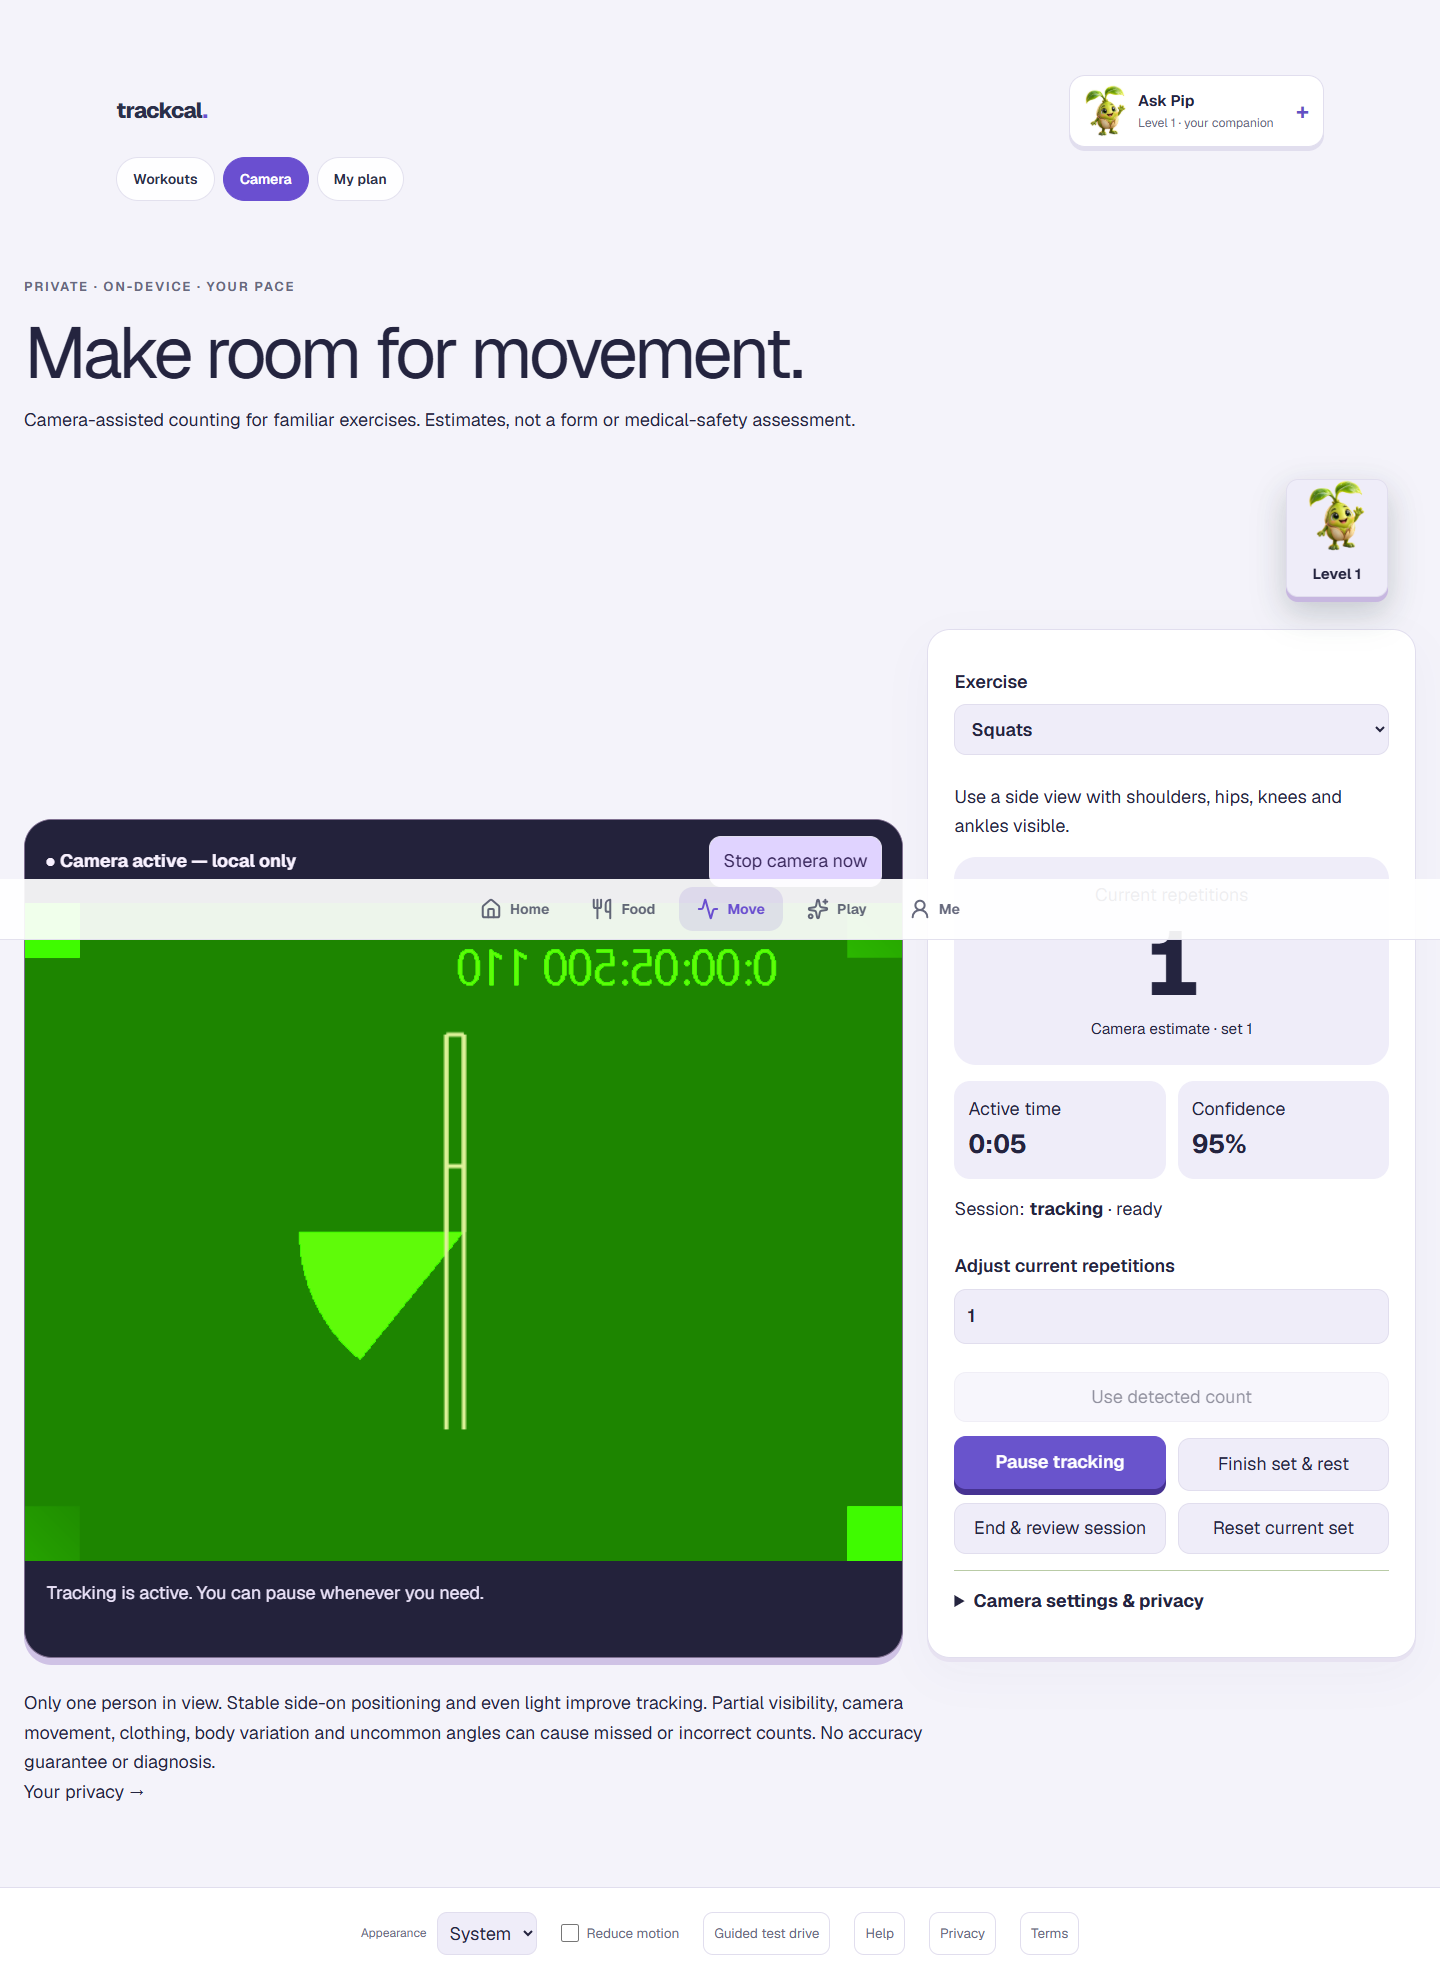
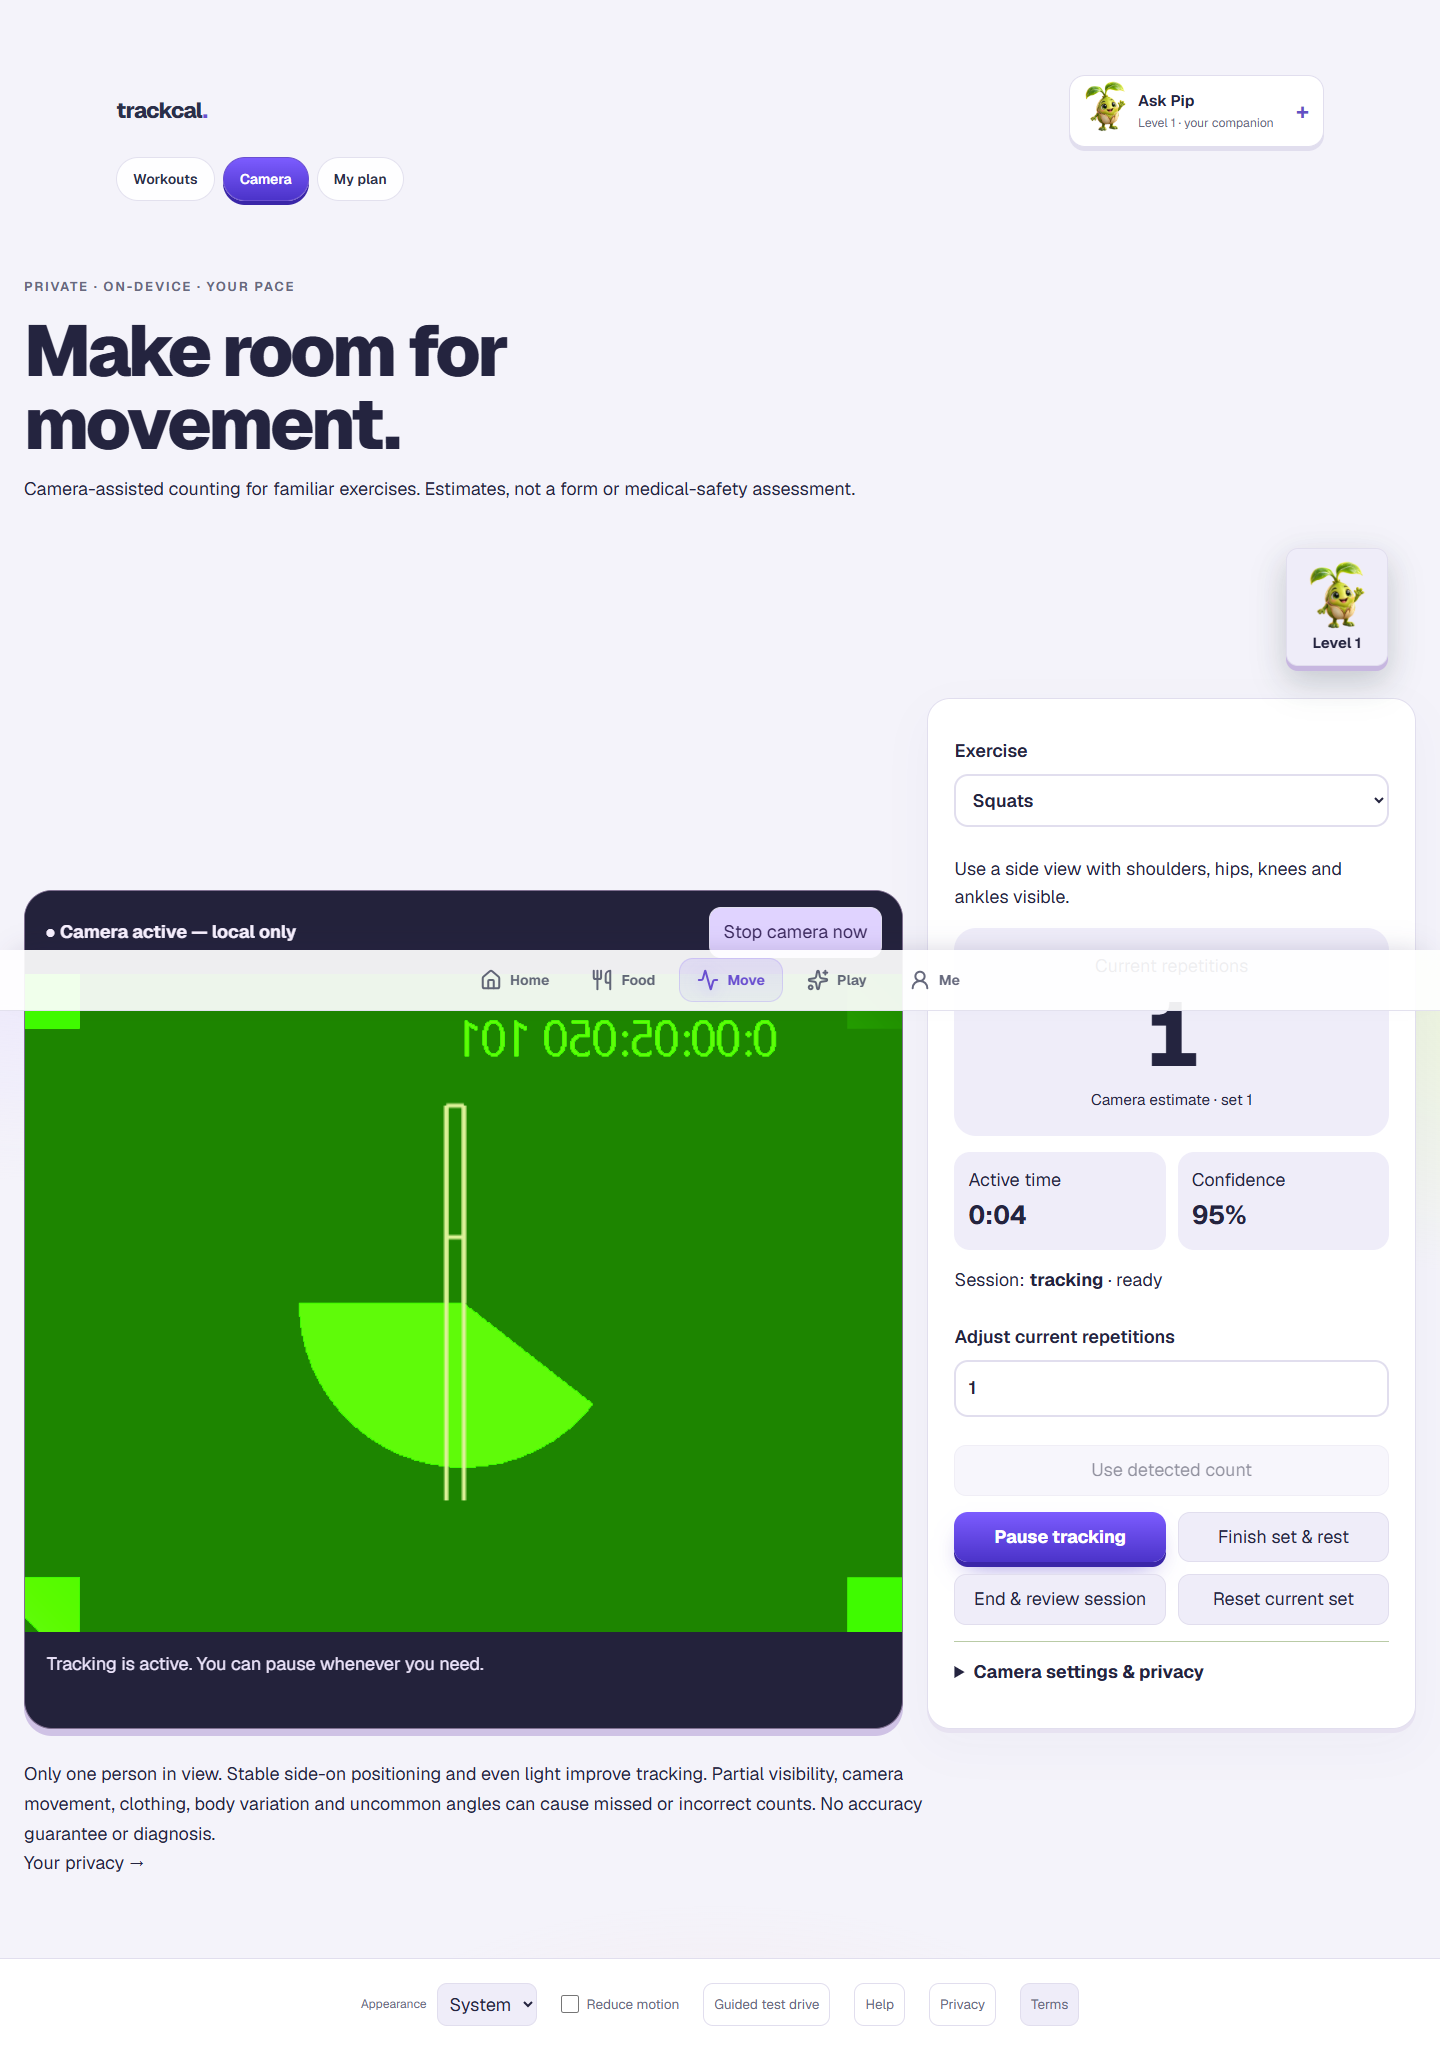
docs: step 5 redesign record

diff --git a/docs/STEP5_REDESIGN_20261029.md b/docs/STEP5_REDESIGN_20261029.md
@@ -1,0 +1,54 @@
+# Step 5: Gen Z 3D redesign and living characters — 29 October 2026
+
+Owner's direction: "CSS 3D + animated art" (not WebGL), more attractive for a Gen Z audience, characters that move and are interactive, with polished text and transitions everywhere. Existing character art, features and data are unchanged.
+
+## What changed
+
+### Design layer (`src/app/theme.css`, loaded last, built on the existing `--tc-*` tokens)
+
+| Element | Before | Now |
+|---|---|---|
+| Background | Flat | Soft colour mesh (lavender, lime, coral), adjusted for dark mode |
+| Headings | Mixed weights and fonts per page | One heavy display style: Geist Variable 850, tight tracking |
+| Cards (`account-card` ×71, wellness and Play cards) | Mostly flat white | "Clay" 3D surfaces: rounded, inner highlight, layered edge and soft drop shadow; hover lift on interactive cards |
+| Primary buttons (`account-primary` ×45, `gate-primary`, `play-button`) | Flat | Violet gradient with a 3D edge that presses down when tapped |
+| Secondary buttons (`account-secondary` ×57, `gate-secondary`, `destination-button`) | Thin outline | Chunky outline with a soft edge and press effect |
+| Inputs | Mixed | Rounded, 2 px border, glowing violet focus ring |
+| Navigation | Plain bar | Glass tab bar (92% opaque, blurred); the active tab icon pops and glows; the active section pill gets the 3D edge |
+| Pages | Instant swap | Content rises in on load; cross-page View Transitions where supported (Chrome/Edge; other browsers navigate instantly) |
+
+### Living characters (`src/components/living-characters.tsx`)
+
+Every character image (`/characters/*.png`), on any page, present or future:
+
+- **Idle:** a gentle breathing float, with staggered timing so characters don't move in sync.
+- **Look:** tilts toward the mouse pointer (up to about 14°).
+- **Tap:** hops, sparkles burst from the tap point, and a short cheer bubble appears ("High five!", "Let's go!" and others).
+- **XP earned:** every visible character jumps and celebrates with confetti. A new `trackcal-xp-awarded` event fires from the adventure, personalization and wellness clients only when the server awarded XP.
+
+It uses the individual `translate`, `scale` and `rotate` CSS properties, so it combines with the existing character animations instead of overriding them. The decorative bubbles and particles are hidden from screen readers.
+
+### Layout cleanups
+
+- Removed the redundant brand-and-back-link headers on Account, Help, Progress, Reminders and Smart tools (the app header already shows both). The sign-in screens keep their back link because they have no navigation.
+- Play's "Calm mode" control is aligned with the page content at every width.
+
+## Motion and accessibility
+
+All new animation is off when the system "reduce motion" setting is on, when TrackCal's "Reduce motion" is ticked, or when a calm mode is on. Verified in Chromium:
+
+| Setting | Idle animation | Turn toward pointer | Tap reaction | Effects |
+|---|---|---|---|---|
+| Full motion | `lc-idle` running on all 9 characters on Play | yes | hop + "High five!" + 10 sparkles | yes |
+| Reduced motion | none | none | none | none |
+
+The page-entry animation does not keep a lasting `translate` on `<main>`, which would otherwise capture fixed-position modals inside pages.
+
+## Verification
+
+- Web: **177/177** vitest (new: 5 living-character tests covering adoption of new images, tap reaction, celebrating only when XP is awarded, reduced motion and cleanup), TypeScript, lint 0 errors.
+- Browser (Chromium, test schema): studio 14/14, privacy 16/16, feature journeys 23/23, phase 3 journeys 17/17, phase 4 camera 18/18 (SIMULATED camera), all 27 routes and the 404 page clean at 360 px.
+
+## Not verified
+
+Real phones (touch feel, frame rate and battery with many animated characters on low-end devices), Safari and Firefox (View Transitions fall back to an instant change), and screen-reader listening tests.
